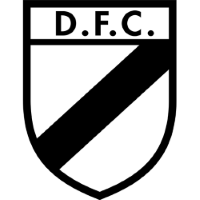
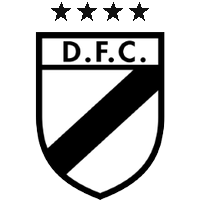
Olaza, Chacón (Sub-20 y Minnesota) y Godín; Danubio con 4 estrellas; arreglo del carrusel de portada

diff --git a/public/index.html b/public/index.html
@@ -281,8 +281,8 @@ body::after{content:"";position:fixed;inset:0;pointer-events:none;z-index:0;opac
 .hero-show{all:unset;cursor:pointer;position:relative;display:flex;align-items:flex-end;justify-content:center;padding:28px 28px 0;min-width:0}
 .hero-frame{position:relative;width:min(100%,340px);aspect-ratio:4/5;border-radius:22px;overflow:hidden;box-shadow:0 40px 80px -30px rgba(0,0,0,.9),0 0 0 1px rgba(255,255,255,.1),0 0 90px -20px rgba(91,200,255,.55);transform:perspective(1200px) rotateY(-6deg) rotateX(2deg);transition:transform .6s cubic-bezier(.2,.7,.2,1)}
 .hero-show:hover .hero-frame{transform:perspective(1200px) rotateY(0) rotateX(0) translateY(-4px)}
-.hero-frame img{position:absolute;inset:0;width:100%;height:100%;object-fit:cover;opacity:0;transition:opacity 1s ease}
-.hero-frame img.on{opacity:1}
+.hero-frame>img{position:absolute;inset:0;width:100%;height:100%;object-fit:cover;opacity:0;transition:opacity 1s ease}
+.hero-frame>img.on{opacity:1}
 .hero-cap{position:absolute;left:0;right:0;bottom:0;padding:44px 18px 16px;background:linear-gradient(transparent,rgba(5,7,12,.92));display:flex;flex-direction:column;gap:4px}
 .hero-cap small{font:600 9.5px/1 var(--body);letter-spacing:.2em;text-transform:uppercase;color:#a6e2ff}
 .hero-cap b{font:600 17px/1.2 var(--disp)}
@@ -531,10 +531,10 @@ body::after{content:"";position:fixed;inset:0;pointer-events:none;z-index:0;opac
       fin.forEach(function(r,k){imgs[k].dataset.id=r.id});
       var paint=function(k){var r=fin[k];cap.textContent='';var who=el('span');add(who,el('span',null,r.regaloDe||''),flag(r.nacionalidad));add(cap,el('small',null,k?'En la vitrina':'Última incorporación'),el('b',null,r.equipo+(r.temporada?' '+r.temporada:'')),who)};
       paint(0);add(show,fr,dots);add(hero,show);
-      show.addEventListener('click',function(){var a=fr.querySelector('img.on');openSheet(a?a.dataset.id:fin[0].id)});
+      show.addEventListener('click',function(){var a=fr.querySelector(':scope>img.on');openSheet(a?a.dataset.id:fin[0].id)});
       if(window.__heroT)clearInterval(window.__heroT);
       if(imgs.length>1&&!matchMedia('(prefers-reduced-motion: reduce)').matches)window.__heroT=setInterval(function(){
-        var live=document.querySelector('.hero-frame');if(!live)return;var ims=live.querySelectorAll('img'),ds=live.parentNode.querySelectorAll('.hero-dots i');
+        var live=document.querySelector('.hero-frame');if(!live)return;var ims=live.querySelectorAll(':scope>img'),ds=live.parentNode.querySelectorAll('.hero-dots i');
         var k=0;ims.forEach(function(m,x){if(m.classList.contains('on'))k=x});ims[k].classList.remove('on');ds[k]&&ds[k].classList.remove('on');k=(k+1)%ims.length;ims[k].classList.add('on');ds[k]&&ds[k].classList.add('on');
         var r=byId(ims[k].dataset.id);var c=live.querySelector('.hero-cap');if(r&&c){c.textContent='';var who=el('span');add(who,el('span',null,r.regaloDe||''),flag(r.nacionalidad));add(c,el('small',null,'En la vitrina'),el('b',null,r.equipo+(r.temporada?' '+r.temporada:'')),who)}
       },4500);
